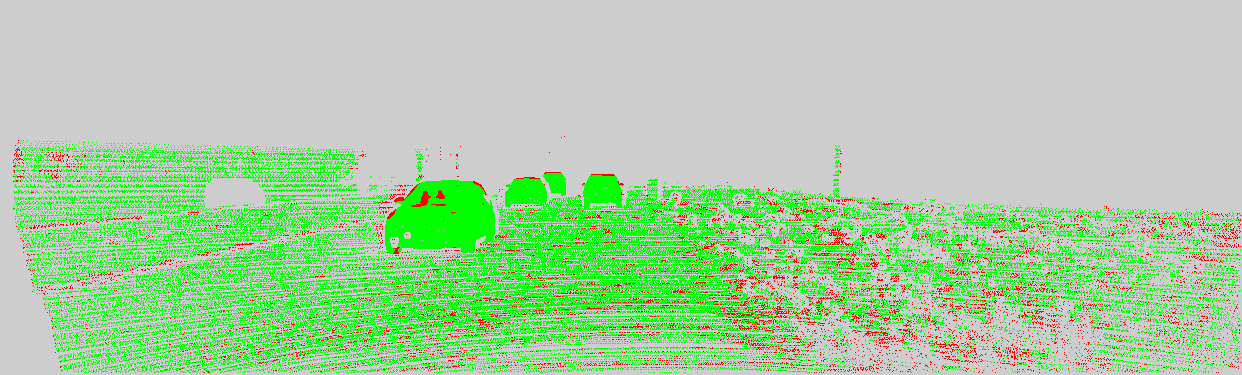
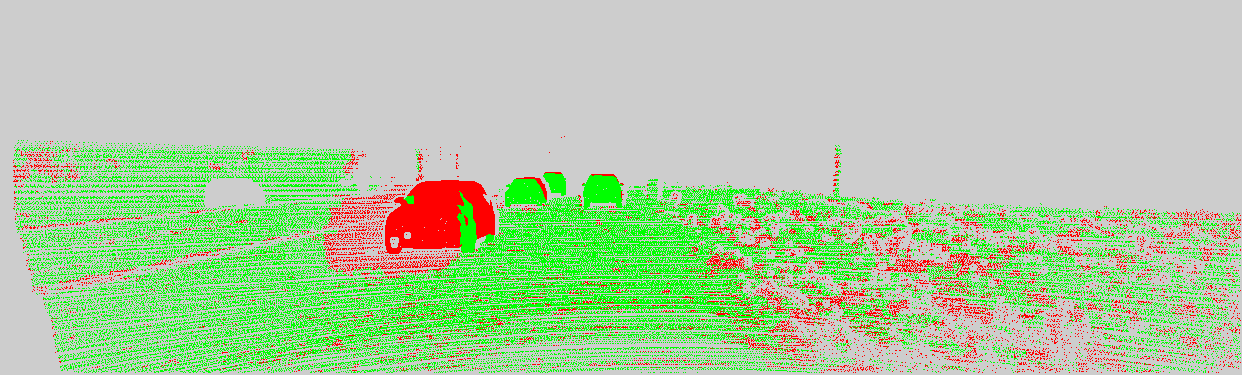
update

diff --git a/TemporalCorrelationMatching/src/TCM_main.cpp b/TemporalCorrelationMatching/src/TCM_main.cpp
@@ -7,8 +7,8 @@ using namespace std;
 int main() {
 
 	//load image
-	Mat lImg = imread("image/left_img/000040_10.png", 1);
-	Mat rImg = imread("image/right_img/000040_10.png", 1);
+	Mat lImg = imread("image/left_img/000040_11.png", 1);
+	Mat rImg = imread("image/right_img/000040_11.png", 1);
 	Mat GroundTruth = imread("image/disp_noc_0/000040_10.png", 0);  //_10
 
 	if (lImg.empty() || rImg.empty() || GroundTruth.empty()) {
@@ -44,20 +44,20 @@ int main() {
 	std::cout << "Image Postprocessing Done!\n" << std::endl;
 
 	//export result
-	imwrite("image/disp_img/000040_10_res_64d.png", postlDis);
-	imwrite("image/disp_img/000040_10_res_occ_64d.png", Disp_img_occ);
-	imwrite("image/disp_img/000040_10_leftnocheck_64d.png", left_row_disp);
-	imwrite("image/disp_img/000040_10_rightnocheck_64d.png", right_row_disp);
+	imwrite("image/disp_img/000040_11_res_64d.png", postlDis);
+	imwrite("image/disp_img/000040_11_res_occ_64d.png", Disp_img_occ);
+	imwrite("image/disp_img/000040_11_leftnocheck_64d.png", left_row_disp);
+	imwrite("image/disp_img/000040_11_rightnocheck_64d.png", right_row_disp);
 	std::cout << "Image Write Done!\n" << std::endl;
 
 	//evaluate
-	Mat MyDisp = imread("image/disp_img/000040_10_res_64d.png", 0);
+	Mat MyDisp = imread("image/disp_img/000040_11_res_64d.png", 0);
 	KITTIEvaluate(GroundTruth, MyDisp, ErrorMap);
 	imwrite("image/disp_img/000040_10_res_64d_err.png", ErrorMap);
 	std::cout << "Image Evaluation Done!\n" << std::endl;
 
-	Mat lRow = imread("image/disp_img/000040_10_leftnocheck_64d.png", 1);
-	Mat RRow = imread("image/disp_img/000040_10_rightnocheck_64d.png", 1);
+	Mat lRow = imread("image/disp_img/000040_11_leftnocheck_64d.png", 1);
+	Mat RRow = imread("image/disp_img/000040_11_rightnocheck_64d.png", 1);
 
 	return 0;
 
